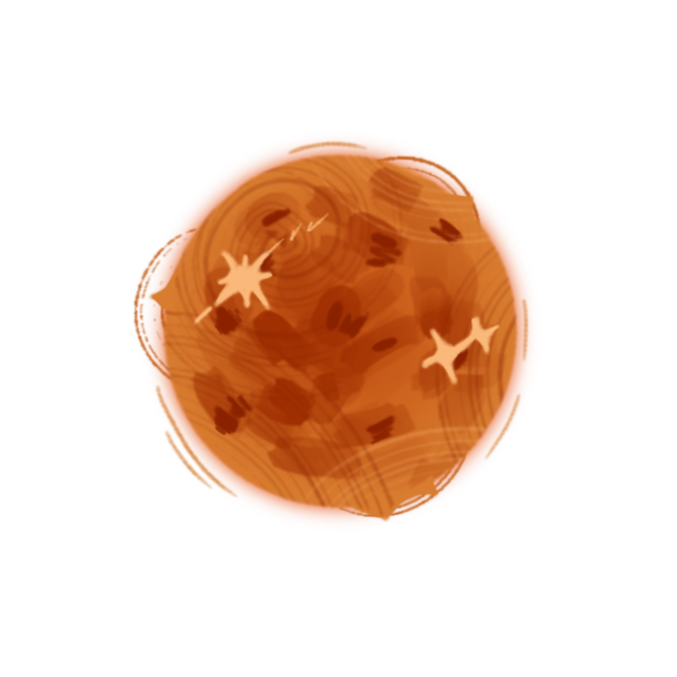
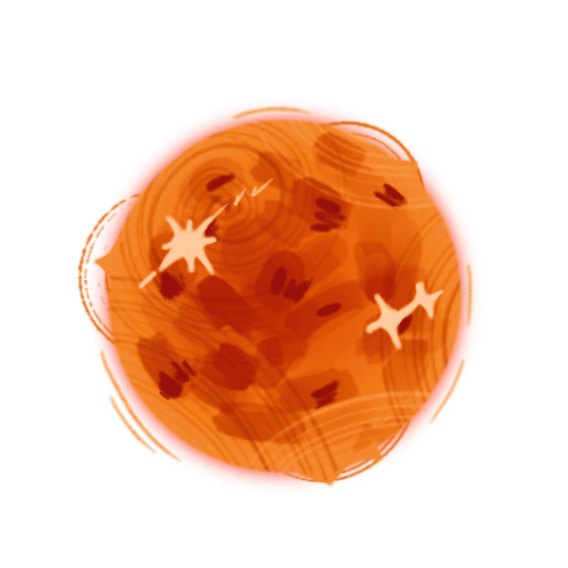
new image

diff --git a/index.html b/index.html
@@ -180,7 +180,7 @@
         document.querySelector('.bottom-right img').style.width =
             expSize(vw, 320, 1880, 160, 390, exponent) + 'px';
         document.querySelector('.sun img').style.width =
-            expSize(vmin, 320, 1040, 100, 700, exponent) + 'px';
+            expSize(vmin, 320, 1040, 100, 640, exponent) + 'px';
 }
 
 window.addEventListener('resize', updatePlanetSizes);